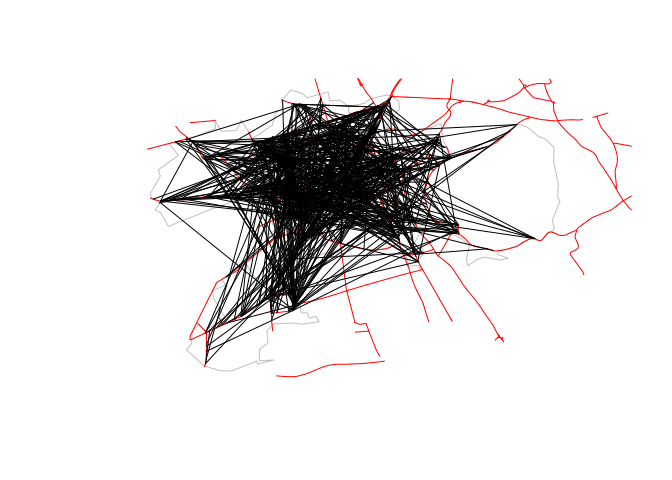
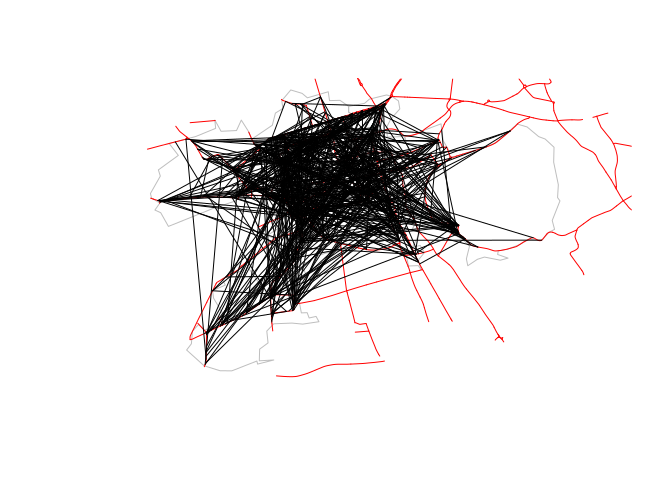
Document rng-seed

Changed region(s): [[0.2188, 0.1875, 0.8125, 0.75]]

diff --git a/README.md b/README.md
@@ -149,6 +149,10 @@ result after setting `max-per-od` to 10.
 
 <img src="README_files/figure-gfm/unnamed-chunk-9-1.png" width="30%" /><img src="README_files/figure-gfm/unnamed-chunk-9-2.png" width="30%" /><img src="README_files/figure-gfm/unnamed-chunk-9-3.png" width="30%" />
 
+Note: `odjitter` uses a random number generator to sample points, so the
+output will change each time you run it, unless you set the `rng-seed`,
+as documented in the next section.
+
 # Details
 
 For full details on `odjitter`’s arguments run `odjitter --help` which
